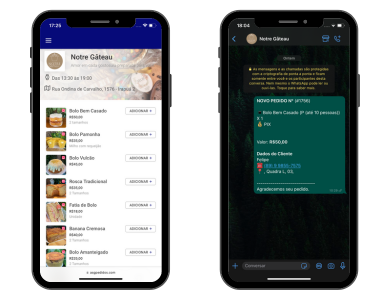
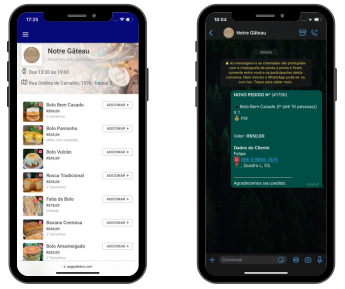
adicionei design e interação aos button

diff --git a/index.html b/index.html
@@ -12,14 +12,15 @@
         
         <nav>
             <img src="imagens/perfilasgpedidos.png" alt="">
-            <a href="#">Junte-se agora</a>
-            <button id="pt">pt</button>
+            <a href="https://asgpedidos.com/login" target="_self" rel="next">Junte-se agora</a>
         </nav>
         
         <div id="divanual">
             <h1>Delivery Completo e Sem taxas</h1>
             <p class="paragrafo">Economize até R$240,00 assinando o plano anual.</p>
-            <button class="assinar">ASSINAR AGORA!</button>
+            <a href="https://api.whatsapp.com/send/?phone=5589999419339&text&type=phone_number&app_absent=0" target="_blank" rel="external">
+                <button class="assinar">ASSINAR AGORA!</button>
+            </a>
         </div>
 
     </header>
@@ -32,7 +33,9 @@
                     <div id="textoiphone">
                         <h2 style="color: #040758;">Soluções em cardápio digital <br> no delivery e dentro do estabelecimento.</h2>
                         <p class="paragrafo" style="color: black;">Tenha um cardápio digital simples e prático, livre de taxas.<br> Automatize 100% seus pedidos com uma solução integrada aos melhores PDVs.</p>
-                        <button class="começar">Começar</button>
+                        <a href="https://api.whatsapp.com/send/?phone=5589999419339&text&type=phone_number&app_absent=0" target="_blank" rel="external">
+                            <button class="começar">Começar</button>
+                        </a>
                     </div>
                     <div id="imagemiphone">
                         <img src="imagens/print-iphone.png" alt="">
@@ -55,7 +58,7 @@
             <div id="imagensdashboard">
                         <div id="imgdash1">
                             <picture>
-                                <source media="(max-width: 662px)" srcset="imagens/dashboard-390.png">
+                                <source media="(max-width: 662px)" srcset="imagens/dashboard-400.png">
                                 <img src="imagens/dashboard-550.png" alt="">
                             </picture>
                         </div>
@@ -80,14 +83,18 @@
                         <li>Cardápio Digital Personalizável com Foto e Descrição</li>
                         <li>Link para Divulgar no WhatsApp e Redes Sociais</li>
                     </ul>
-                    <button class="assinar">QUERO ASSINAR</button>
+                    <a href="https://api.whatsapp.com/send/?phone=5589999419339&text&type=phone_number&app_absent=0" target="_blank" rel="external">
+                        <button class="assinar">QUERO ASSINAR</button>
+                    </a>
                 </aside>
 
                 <div id="imagemqrcode">
                     <img src="imagens/qrcode-800.png" alt="">
                     <h2 style="color: #040758;">LEITURA RÁPIDA DE QR <br> Menu digital sem contato</h2>
                     <p style="color: black;">Milhares de Estabelecimentos usam QuickQR <br> para transformar suas ideias em realidade.</p>
-                    <button class="começar">Junte-se agora</button>
+                    <a href="https://api.whatsapp.com/send/?phone=5589999419339&text&type=phone_number&app_absent=0" target="_blank" rel="external">
+                        <button class="começar">Junte-se agora</button>
+                    </a>
                 </div>
 
         </section>

diff --git a/style/style.css b/style/style.css
@@ -22,7 +22,7 @@ body {
 header nav {
     background-color: white;
     padding: 10px;
-    box-shadow: 1px 1px 2px;
+    box-shadow: 0px 5px 5px -5px black;
     display: flex;
     align-items: center;
     position: fixed;
@@ -31,12 +31,8 @@ header nav {
     z-index: 100;
 }
 
-#pt {
-    margin-left: auto;
-    margin: 20px;
-    padding: 15px;
-    background-color: var(--cor0);
-    color: white;
+a {
+    text-decoration: none;
 }
 
 header nav a {
@@ -45,9 +41,16 @@ header nav a {
     padding: 15px;
     width: 130px;
     border-radius: 8px;
+    border: 1px solid var(--cor3);
+    margin: 15px;
     margin-left: auto;
-    text-decoration: none;
     text-align: center;
+}
+
+nav a:hover {
+    background-color: white;
+    color: var(--cor0);
+    border: 1px solid var(--cor3);
 }
 
 header {
@@ -55,6 +58,7 @@ header {
     margin: auto;
     margin-top: 20px;
     height: 200px;
+    
 }
 
 #divanual {
@@ -79,8 +83,23 @@ header h1, p {
     background-color: white;
     color: var(--cor0);
     border-radius: 8px;
-    width: 200px;
+    width: 300px;
     justify-content: center;
+}
+
+.assinar::after {
+    content: '';
+    filter: blur(15px);
+    z-index: -1;
+    position: absolute;
+    left: 0;
+    top: 0;
+}
+
+.assinar:hover {
+    transform: scale(0.9) rotate(0deg);
+    transition: 0.5s;
+    cursor: pointer;
 }
 
 main {
@@ -98,13 +117,6 @@ section {
     padding: 20px;
 }
 
-/* section article {
-    display: flex;
-    justify-content: center;
-    align-items: center;
-    padding: 30px;
-} */
-
 .começar {
     background-color: var(--cor0);
     color: white;
@@ -112,9 +124,17 @@ section {
     height: 40px;
     margin: auto;
     margin-top: 30px;
+    margin-bottom: 20px;
     justify-content: center;
     padding: 5px;
     border-radius: 8px;
+}
+
+.começar:hover {
+    background-color: white;
+    color: var(--cor0);
+    border: 1px solid var(--cor3);
+    cursor: pointer;
 }
 
 .parteiphone {
@@ -144,7 +164,6 @@ section {
 
 #dashboard {
     text-align: center;
-    
 }
 
 #h2dashboard {
@@ -156,6 +175,7 @@ section {
     border-radius: 10px 10px 0px 0px;
     padding: 50px;
     background-image: linear-gradient(to bottom, var(--cor4), var(--cor5), white 95%);
+    box-shadow: 0px -3px 3px 0px rgba(0, 0, 0, 0.562);
 }
 
 #asidedashboard ul {
